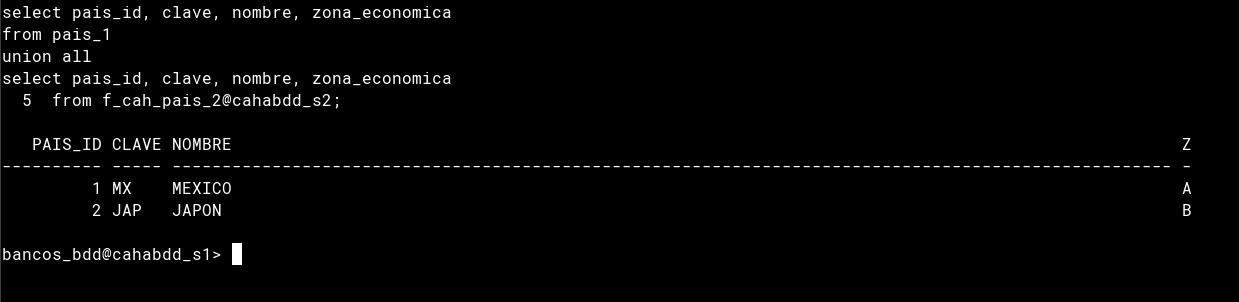
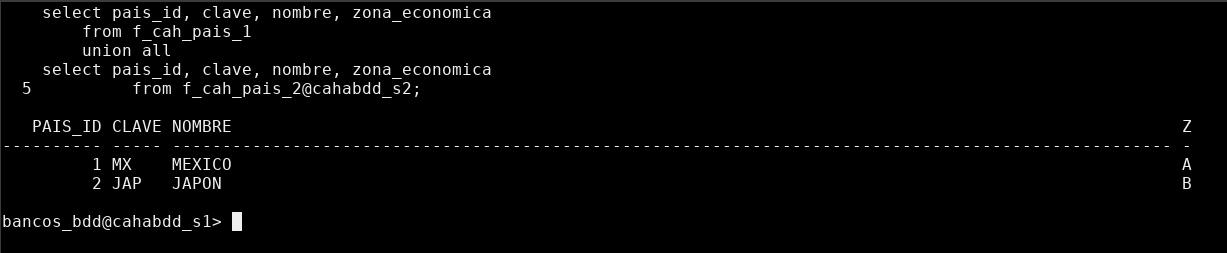
Update README

diff --git a/README.md b/README.md
@@ -1,11 +1,13 @@
 # Distributed Data Bases
 
-### Practices of Relational Distributed DataBases Course
+## Practices of Relational Distributed DataBases Course
 
-- __Practice 1__: Given a Problem where Database has 2 nodes, create
-Fragmentation Scheme for Database, define relational algebrea to
+### Practice 1
+
+**Given a Problem where a distributed database has 2 nodes,
+create a Fragmentation Scheme, define relational algebra to
 fragment each table, write Reconstruction Expressions and create
-Relational Model for each node using Crow's foot notation.
+Relational Model for each node using Crow's foot notation.**
 
 #### Fragmentation Scheme
 
@@ -23,29 +25,54 @@ Relational Model for each node using Crow's foot notation.
 
 ![node s2](/images/P1_N2.jpg)
 
-Create paper where all of this is defined.
+Create [paper](/Practice_1/P1.tex) where all of this is defined.
 
-- __Practice 2__: According to Practice 1, create distributed database
-defining tables, constraints, some data
-and queries to retrieve information as name assign to constraints,
-dummy_number of rows for each table and tables defined for each node.
+### Practice 2
 
-Create scripts where all tables, constaints and queries are defined.
+**According to Fragmentatio Scheme in Practice 1,
+create a distributed database.**
+
+Activies:
+
+1. [Define tables
+2. Constraints
+3. Some data
+4. Queries to retrieve information of constraints' names,
+number of rows for each table and tables defined for each node.
 
 #### Tables defined for each node
+
+- [Tables for node s1](/Practice_2/s-02-CAHA-n1-ddl.sql)
+- [Tables for node s2](/Practice_2/s-02-CAHA-n2-ddl.sql)
 
 Using script to create [tables](/Practice_2/s-03-CAHA-main-ddl.sql)
 
 ![Tables for each node](/images/P2_DDB_1.png)
 
+In image can be seen tables created for each node.
+
 #### Foreign References defined for each node
 
-Using script to retrieve  [tables'](/Practice_2/s-05-CAHA-consulta-restricciones-main.sql) foreign
-references , first column is child table, second is reference name and last parent table.
+- [tables' constraints for s1](/Practice_2/s-05-CAHA-consulta-restricciones-n1.sql)
+- [tables' constraints for s2](/Practice_2/s-05-CAHA-consulta-restricciones-n2.sql)
+
+Using script to retrieve  [tables' foreign references ](/Practice_2/s-05-CAHA-consulta-restricciones-main.sql)
+, first column is child table, second is reference name and last parent table.
 
 ![Tables for each node](/images/P2_DDB_2.png)
 
-- __Practice 3__: Impletended Local Mapping Transparency(Is when the end user or programmer must specify both the fragment names and their locations)
+#### Initial Data Inserted
+
+- [data](/Practice_2/s-06-CAHA-carga.sql)
+
+Using [script](/Practice_2/s-07-CAHA-consultas.sql) to count rows for each table.
+
+![Count for each table](images/P2_DDB_3.png)
+
+### Practice 3
+
+**Impletended Local Mapping Transparency (is when the end user or
+programmer must specify both the fragment' name and their locations)**
 
 This requirement was achieved using database links, the DDL code to
 create those links are derfined in the script
@@ -56,13 +83,24 @@ from another node's using the node's global name, in this case
 there are two nodes:
 
 - CAHABDD_S1: __cahabdd_s1.fi.unam__
-
 - CAHABDD_S2: __cahabdd_s2.fi.unam__
 
-For example in the script [s-03-CAHABDD_S1-consultas.sql](/Practice_3/s-03-CAHABDD_S1-consultas.sql)
-and [s-03-CAHABDD_S2-consultas.sql](/Practice_3/s-03-CAHABDD_S2-consultas.sql), get data from
-the other node to count the dummy_number of rows for each tables defined in the schema, where
-reconstruction expression are used which were defined in *Practice_1*.
+After creating database links, Local Mapping Transparency can be used,
+for example retrieve all data from entity PAIS from node s1:
+
+```sql
+    select pais_id, clave, nombre, zona_economica
+        from f_cah_pais_1
+        union all
+    select pais_id
+        from f_cah_pais_2@cahabdd_s2.fi.unam
+```
+
+In the script [s-03-CAHABDD_S1-consultas.sql](/Practice_3/s-03-CAHABDD_S1-consultas.sql)
+and [s-03-CAHABDD_S2-consultas.sql](/Practice_3/s-03-CAHABDD_S2-consultas.sql),
+get data from the other node to count the number of rows for each entity defined
+in the schema, where reconstruction expression are used, which were defined in
+*Practice_1*.
 
 Results after running these script on each node:
 
@@ -83,20 +121,30 @@ Script [s-04-prepara-carga-archivos.sql](/Practice_3/s-04-prepara-carga-archivos
 is used to verify this scripts work correctly and import and export some data to
 the database.
 
-- __Practice 4__: Implemented Localization and Fragmentantion Transparency for SELECT.
+Result after running script:
 
-The first enables to retrieve info from a fragment without specifying its location
-(node where the fragment is at), just fragment's name like PAIS_2.
+![for node s1](/images/P3_1.png)
+![for node s2](/images/P3_2.png)
 
-The second one is to retrieve info from a global entitie like if it were
-a entitie on a centralized database, uses reconstruction expression
-for each entitie.
+As can be seen, data was imported and exported succesfully.
 
-For example, to retrieve all info from entitie PAIS from node CAHABDD_S1
+### Practice 4
+
+Implemented Localization and Fragmentantion Transparency for SELECT.
+
+The first one enables to retrieve info from a fragment without specifying its location
+(node where the fragment is at).
+
+The second one is to retrieve info from a global entity like if it were
+a entity on a centralized database, uses reconstruction expression
+for each entity.
+
+For example, to retrieve all info from entity PAIS from node CAHABDD_S1
 using Local Mapping Transparency, it would be like:
+
 ```sql
     select pais_id, clave, nombre, zona_economica
-        from pais_1
+        from f_cah_pais_1
         union all
     select pais_id, clave, nombre, zona_economica
         from f_cah_pais_2@cahabdd_s2;
@@ -134,3 +182,30 @@ change the way query was written.
 Fragmentantion Transparency makes querying for programmer
 much easier because he shouldn't know Fragmentation Scheme
 to use the Distribuited Database.
+
+### Practice 5
+
+Implemented Fragmentantion Transparency for
+_INSERT_, _UPDATE_ and _DELETE_ operations.
+
+This requirement was created using INSTEAD OF TRIGGERS for each
+entity.
+
+Created _INSERT_ and _DELETE_ transparency for following entities:
+
+1. PAIS
+1. SUCURSAL
+1. CUENTA
+1. MOVIMIENTO
+
+Just for __PAIS__ entity, _UPDATE_ transparency was implemented.
+
+1. [Trigger for PAIS entity - both nodes](/Practice_5/s-03-CAHA-pais-trigger.sql)
+2. [Trigger for SUCURSAL entity - node s1](/Practice_5/s-03-CAHA-sucursal-n1-trigger.sql)
+3. [Trigger for SUCURSAL entity - node s2](/Practice_5/s-03-CAHA-sucursal-n2-trigger.sql)
+4. [Trigger for CUENTA entity - node s1](/Practice_5/s-03-CAHA-cuenta-n1-trigger.sql)
+5. [Trigger for CUENTA entity - node s2](/Practice_5/s-03-CAHA-cuenta-n2-trigger.sql)
+6. [Trigger for MOVIMIENTO entity - node s1](/Practice_5/s-03-CAHA-movimiento-n1-trigger.sql)
+7. [Trigger for MOVIMIENTO entity - node s2](/Practice_5/s-03-CAHA-movimiento-n2-trigger.sql)
+
+[Script to create all triggers](Practice_5/s-04-CAHA-main-triggers.sql)
